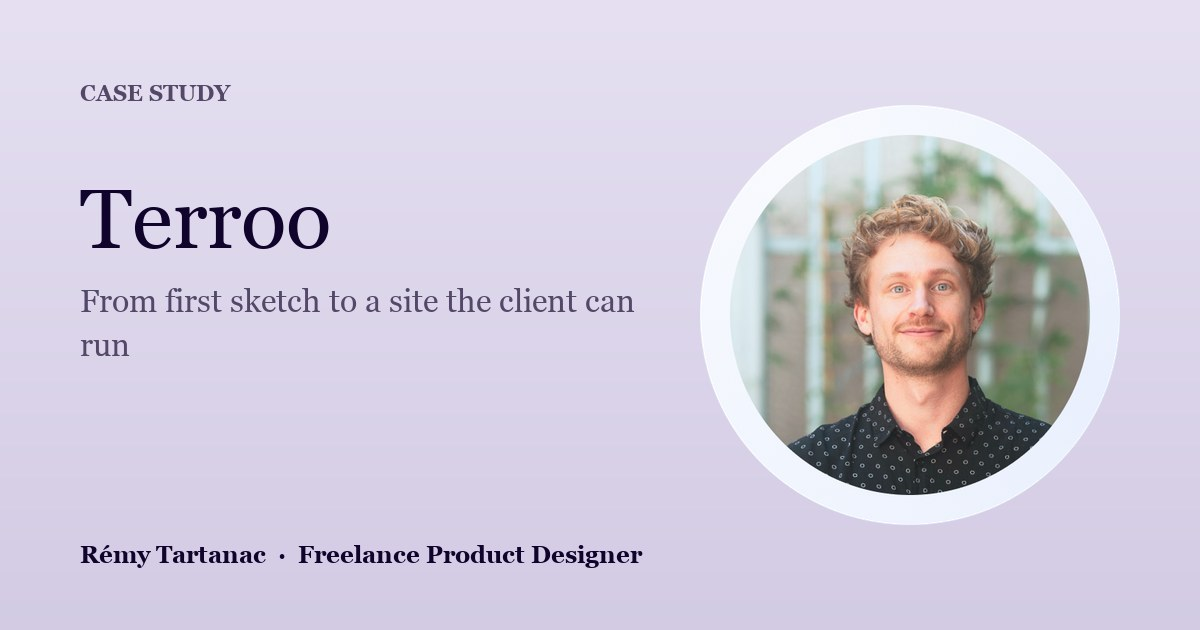
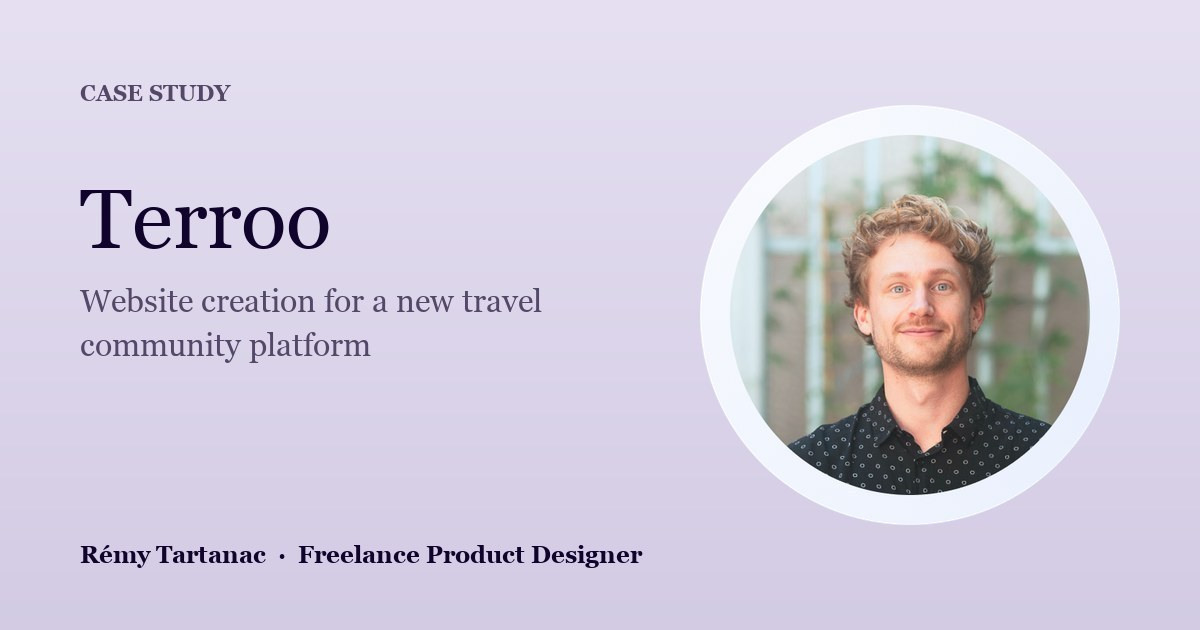
Terroo: new title, full-width flow, hero sizing
- Title: "Website creation for a new travel community platform" in the hero,
  schema, home card and social card
- Step 3 flow spans the full section width like the other two flows
- Hero title 72/90 on desktop and a slightly narrower mockup so it fits in 4 lines

Changed region(s): [[0.0617, 0.4524, 0.5242, 0.573]]

diff --git a/terroo.html b/terroo.html
@@ -33,7 +33,7 @@
       {
         "@type": "CreativeWork",
         "name": "Terroo: Travel Brand & Website Case Study",
-        "headline": "From first sketch to a site the client can run",
+        "headline": "Website creation for a new travel community platform",
         "description": "Case study: art direction, design system, screens and an AI-powered custom WordPress theme for Terroo, a travel site its founder edits herself.",
         "url": "https://remytartanac.com/terroo.html",
         "image": "https://remytartanac.com/assets/terroo-shot-hero.jpg",
@@ -719,6 +719,13 @@
     .cs-next-link:hover .project-btn span { transform: translateX(4px); color: #fff; }
 
     /* ── Responsive ── */
+    @media (min-width: 1440px) {
+      .cs-hero-title { font-size: 72px; line-height: 90px; }
+      .cs-hero-image { width: 760px; height: 562px; }
+    }
+    @media (min-width: 1201px) and (max-width: 1439px) {
+      .cs-hero-title { font-size: 60px; line-height: 74px; }
+    }
     @media (max-width: 1200px) {
       .nav-inner { padding: 0 64px; }
       .cs-hero { padding: 64px; }
@@ -811,7 +818,7 @@
           </a>
           <span class="cs-tag">Travel Platform · Website</span>
         </div>
-        <h1 class="cs-hero-title reveal reveal-delay-1">From first<br>sketch to a site<br>the client<br>can run</h1>
+        <h1 class="cs-hero-title reveal reveal-delay-1">Website creation<br>for a new travel<br>community<br>platform</h1>
         <div class="cs-meta reveal reveal-delay-2">
           <div class="cs-meta-item">
             <span class="cs-meta-label">Role</span>
@@ -994,6 +1001,7 @@
         <h2 class="cs-heading">A brand that holds up page after page</h2>
       </div>
       <p class="cs-body reveal reveal-delay-1">I designed every screen of the site: the homepage, a page for travelers, a page for locals, safety, the manifesto, contact, the blog and the legal pages. All of it exists in English, French and Spanish, and SEO research shaped the structure and the copy from the first wireframe. A visitor moves through it like this:</p>
+      </div>
       <div class="jflow reveal reveal-delay-2">
           <div class="jflow-step">
             <span class="jflow-tag">Home</span>
@@ -1025,6 +1033,7 @@
             <p class="jflow-desc">The button every page leads to</p>
           </div>
         </div>
+      <div class="cs-gallery-container">
       <div class="cs-gallery reveal reveal-delay-1">
         <div class="cs-gallery-item" style="grid-column: 1 / -1;">
           <img loading="lazy" src="assets/terroo-final-hero.jpg" alt="Terroo homepage hero: 'Travel through people, not places,' with a photo of a traveler meeting locals and a language switcher">

diff --git a/index.html b/index.html
@@ -1005,7 +1005,7 @@
               <span class="project-tag">Website</span>
             </div>
             <div class="project-content">
-              <h3 class="project-title">From first sketch to a site the client can run</h3>
+              <h3 class="project-title">Website creation for a new travel community platform</h3>
               <p class="project-desc">Designed the visual identity and website from the founder's vision, now live to the public.</p>
             </div>
           </div>
